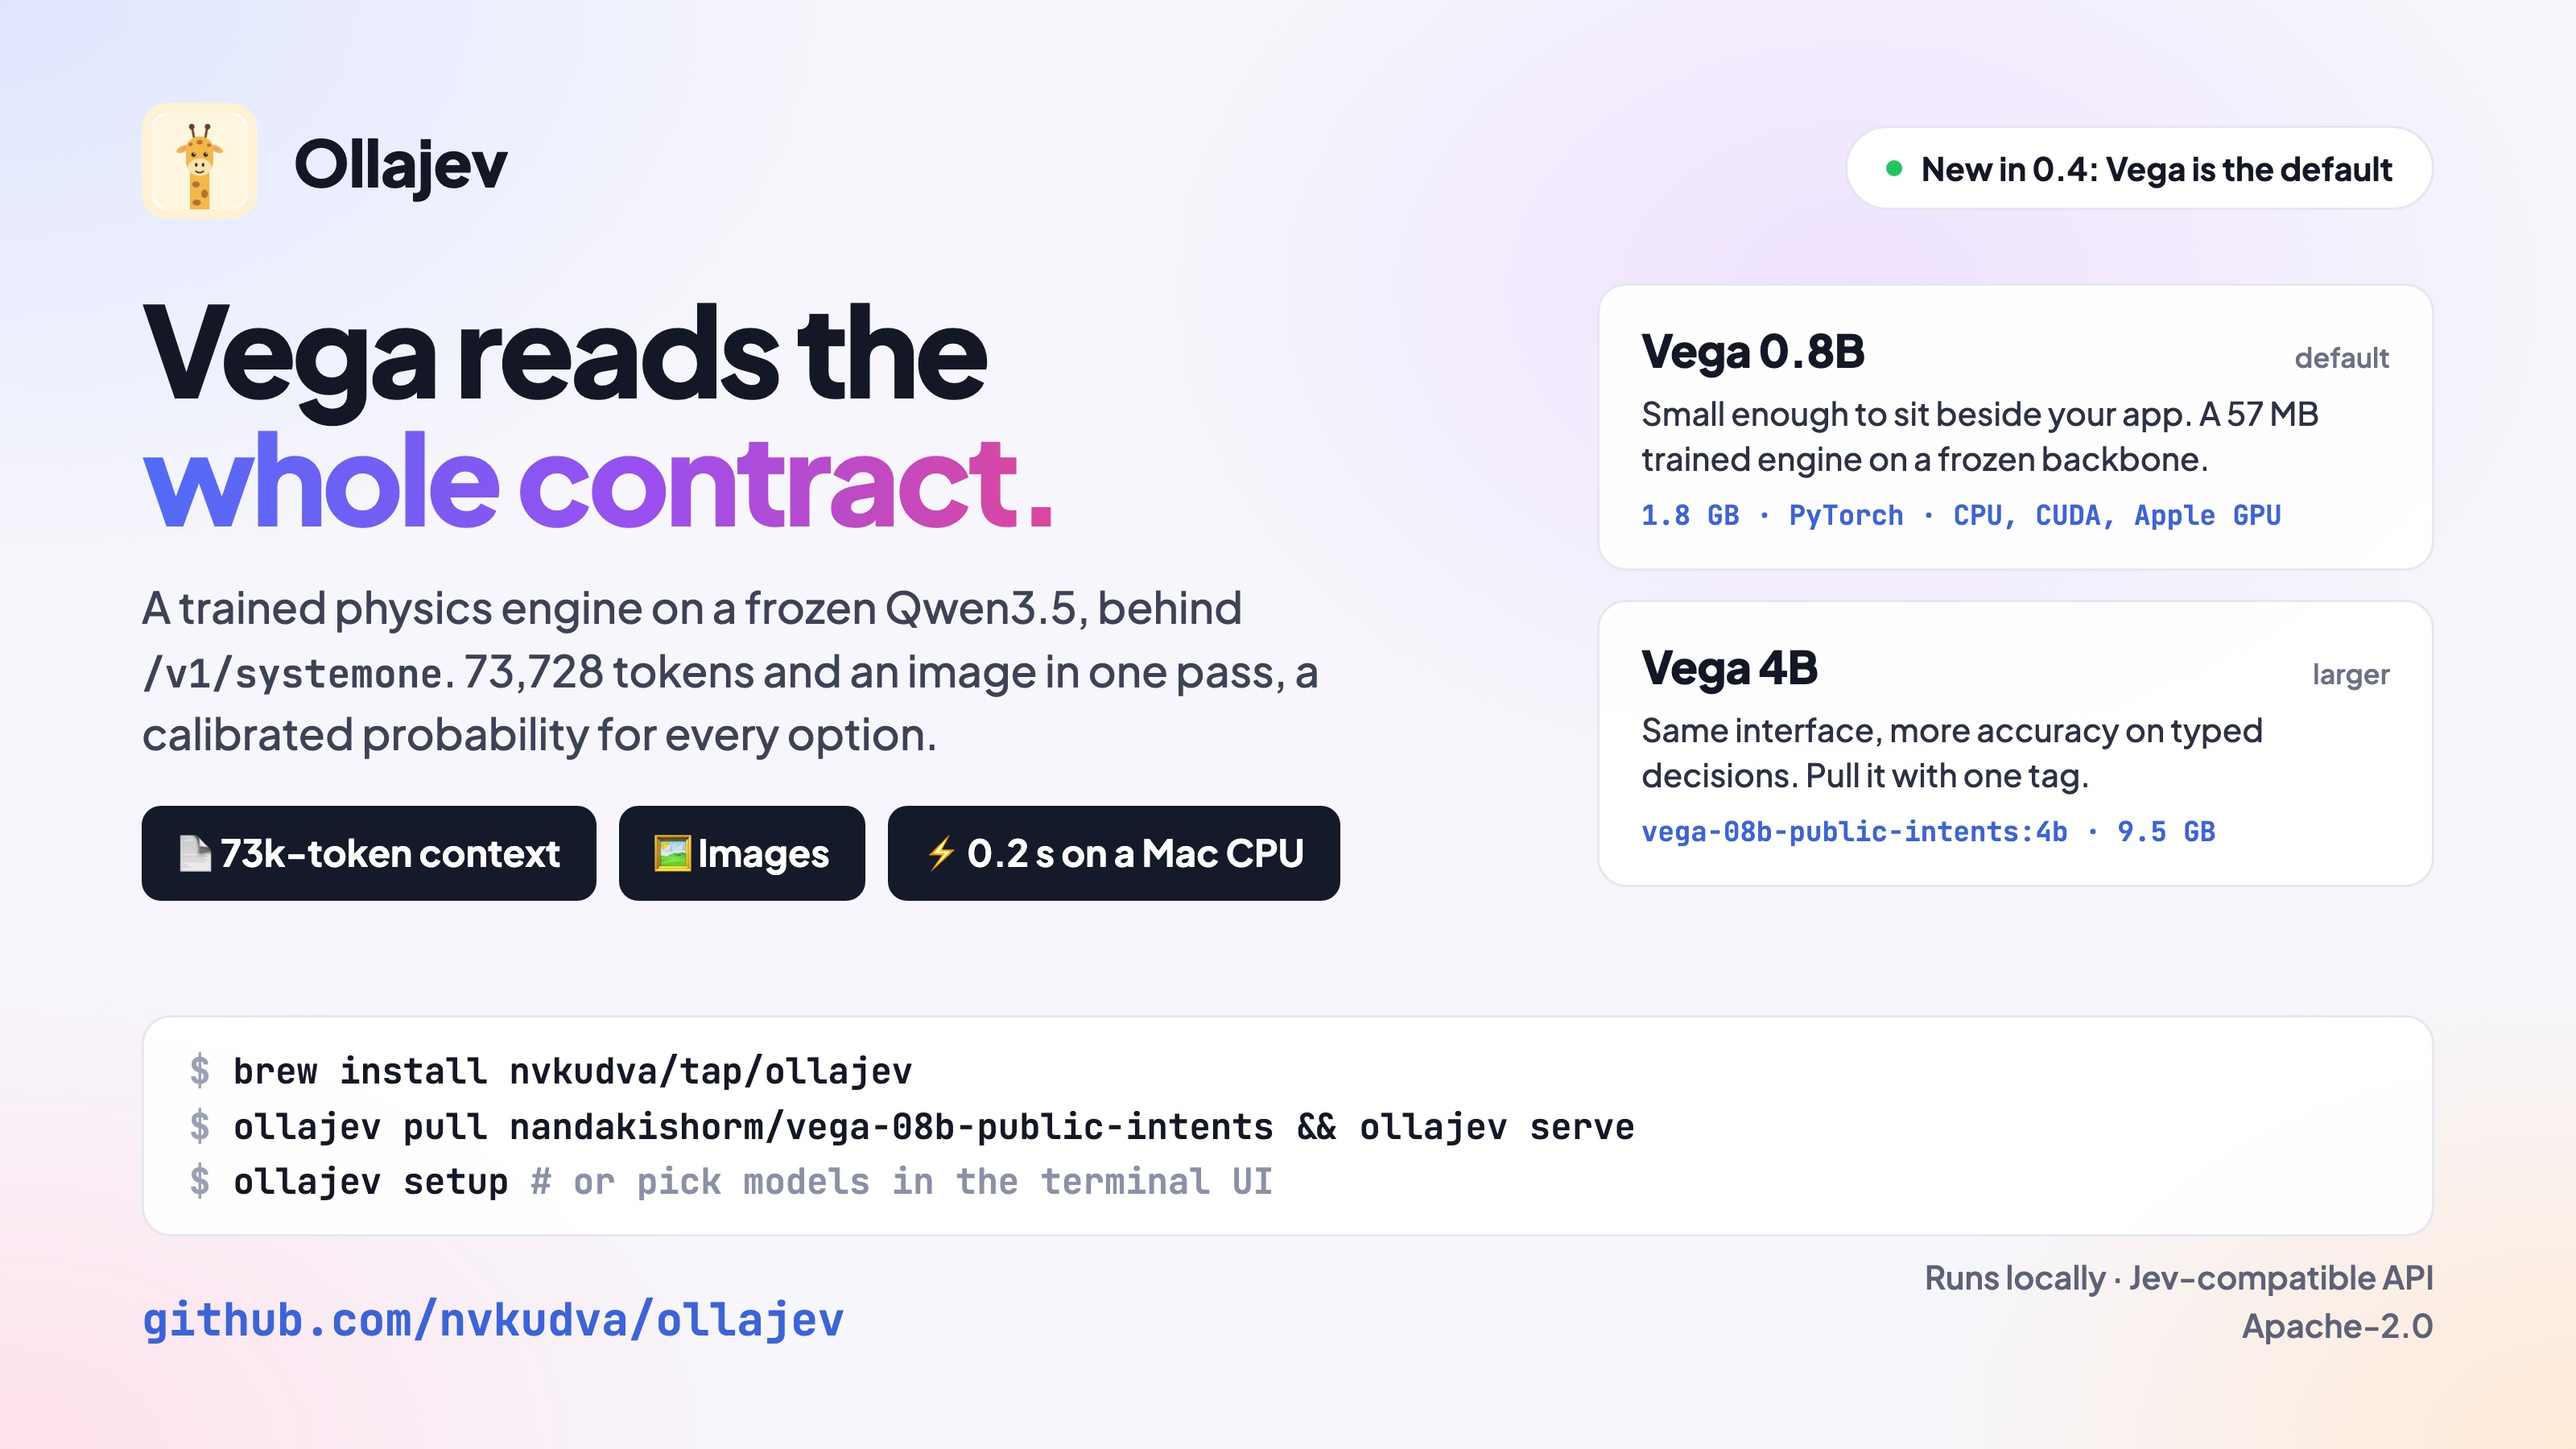
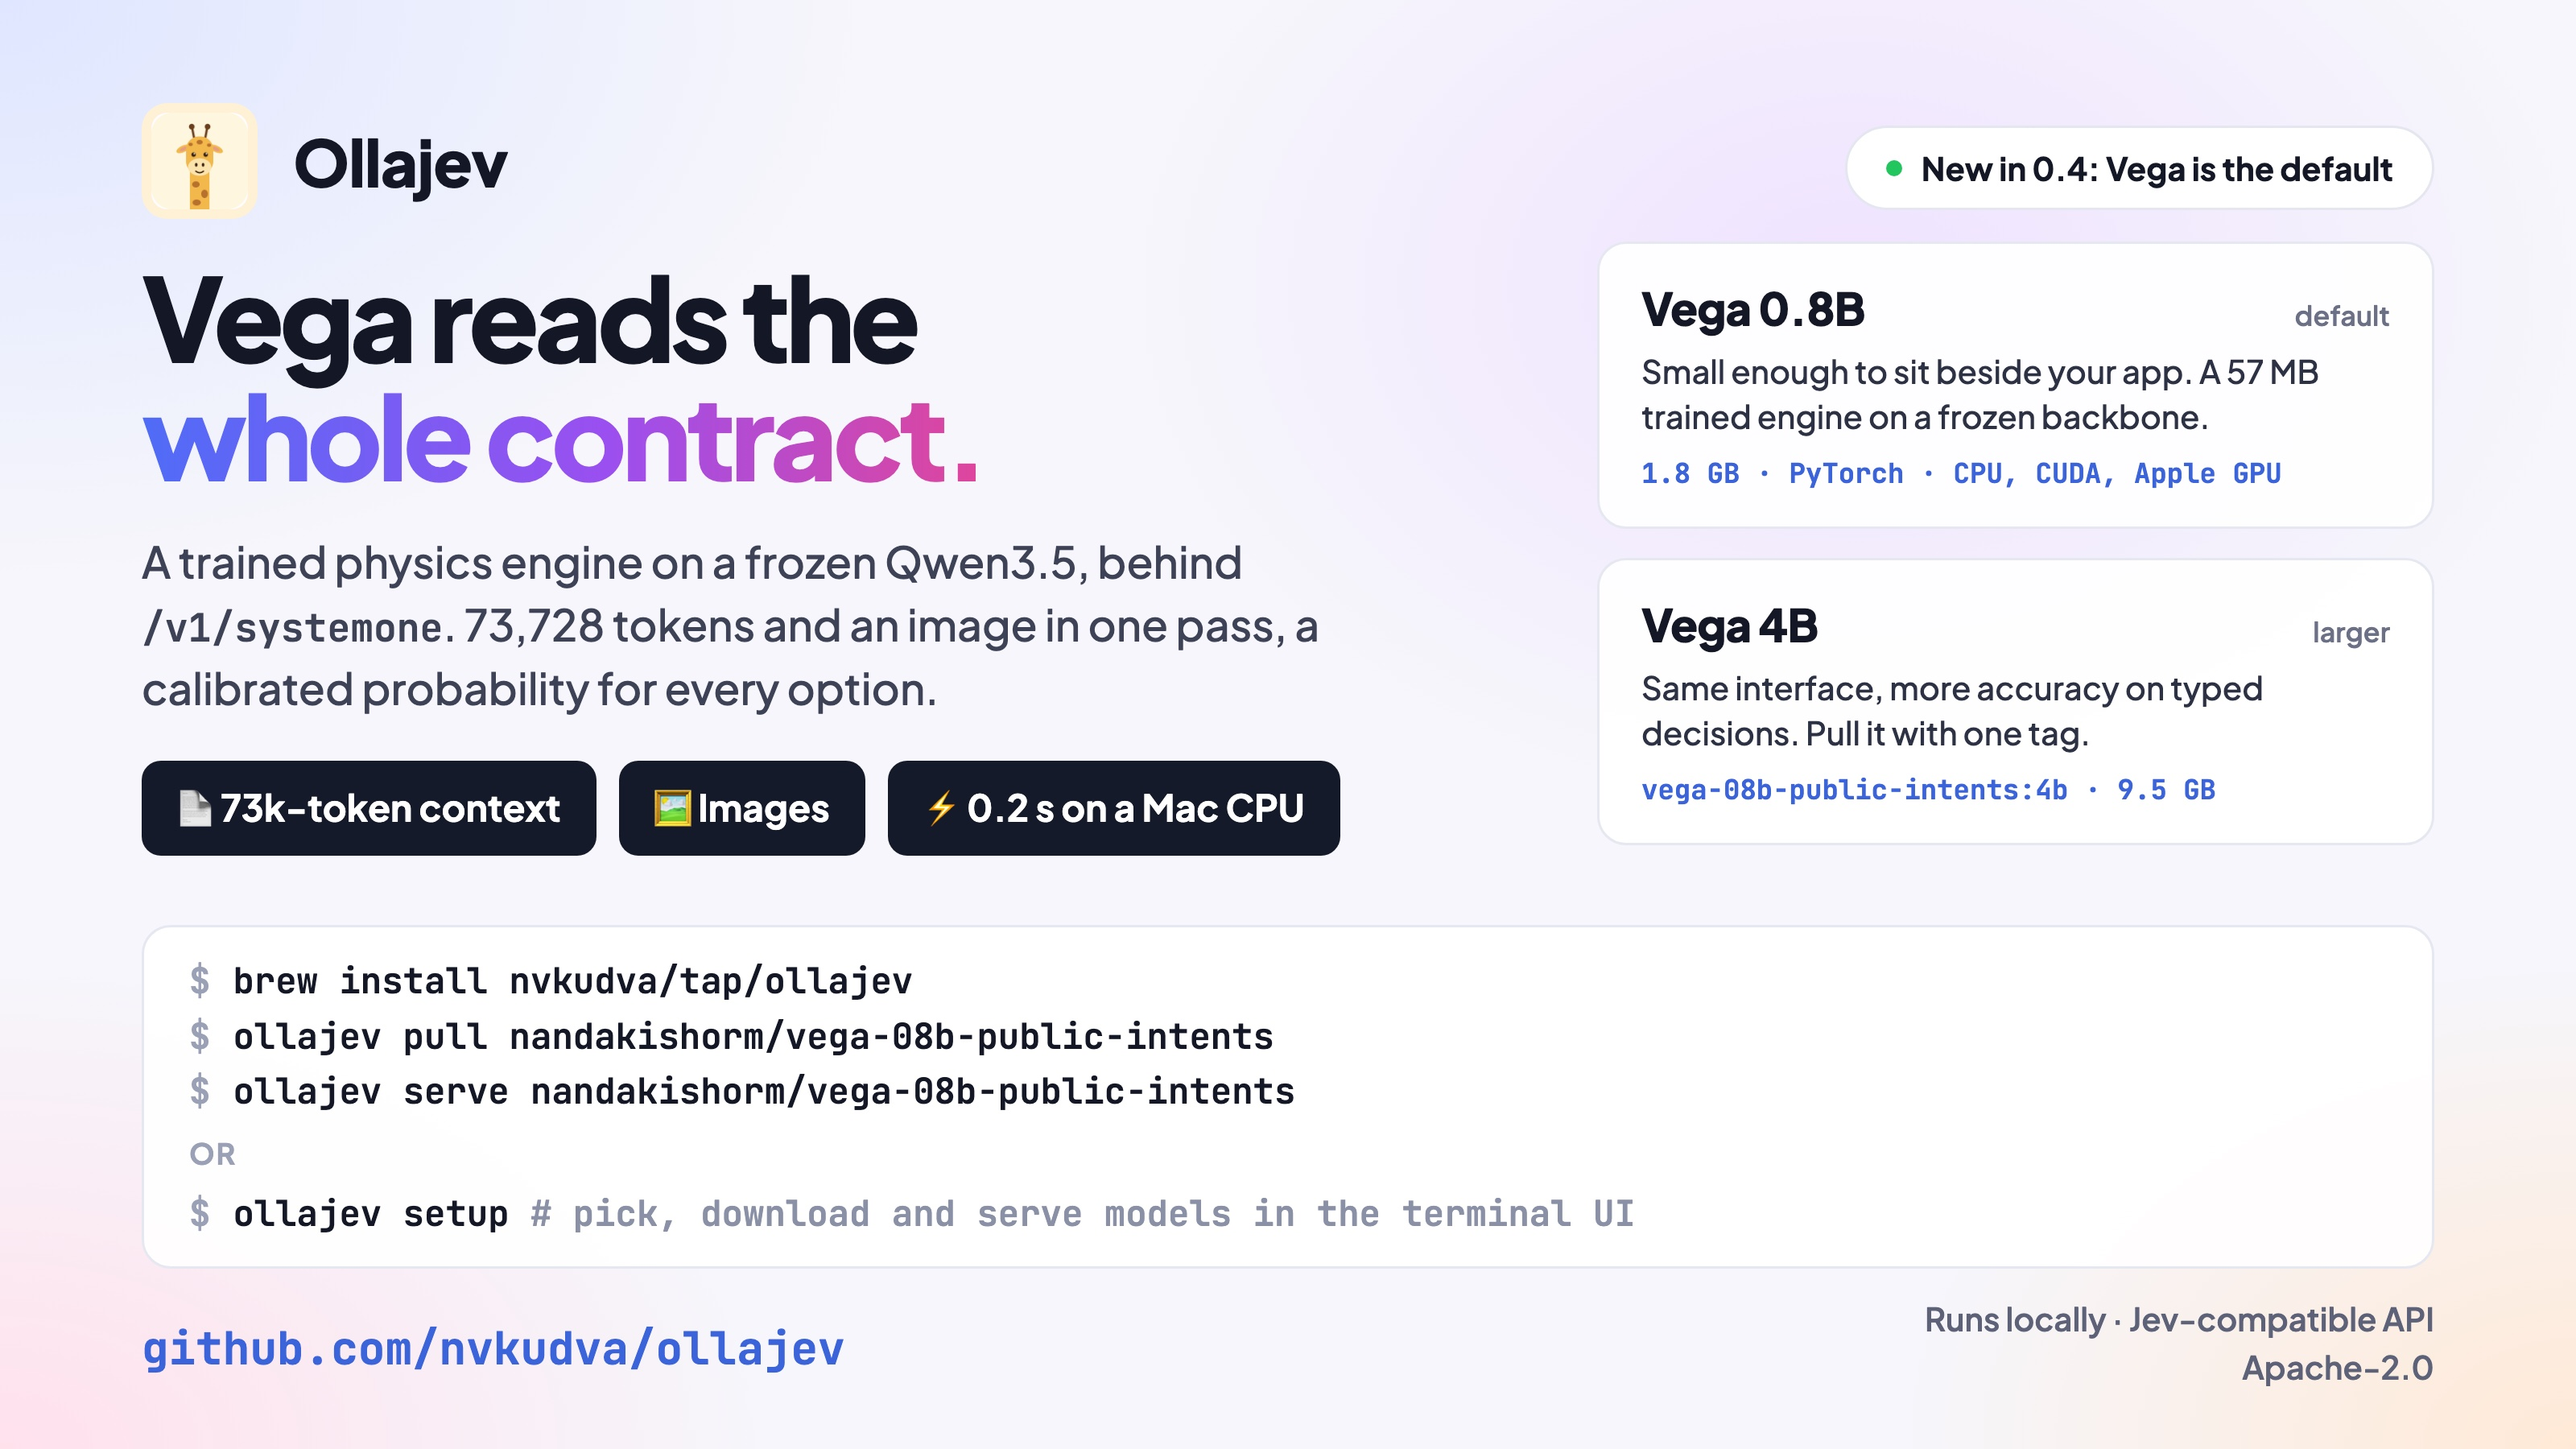
docs(poster): pull and serve Vega by name, or ollajev setup
Claude-Session: https://claude.ai/code/session_0187pUTAZjCm4AQeWJKahLo7

diff --git a/docs/index.html b/docs/index.html
@@ -393,7 +393,7 @@ const SHOTS = {
   vega: {
     src: "vega-poster.jpg",
     width: 3200, height: 1800,
-    alt: "Ollajev: Vega reads the whole contract. New in 0.4, Vega is the default: a trained physics engine on a frozen Qwen3.5, 73,728 tokens and an image in one pass. Cards for Vega 0.8B (default, 1.8 GB) and Vega 4B (9.5 GB, the :4b tag), and the commands to start: brew install nvkudva/tap/ollajev, then ollajev pull nandakishorm/vega-08b-public-intents and ollajev serve, or ollajev setup for the model manager.",
+    alt: "Ollajev: Vega reads the whole contract. New in 0.4, Vega is the default: a trained physics engine on a frozen Qwen3.5, 73,728 tokens and an image in one pass. Cards for Vega 0.8B (default, 1.8 GB) and Vega 4B (9.5 GB, the :4b tag), and the commands to start: brew install nvkudva/tap/ollajev, then ollajev pull and ollajev serve nandakishorm/vega-08b-public-intents, or ollajev setup to pick, download and serve models in the terminal UI.",
   },
   multimodal: {
     src: "multimodal-poster.jpg",

diff --git a/README.md b/README.md
@@ -7,7 +7,7 @@ Run System One decision models from Hugging Face on your machine, behind the sam
 
 <p align="center"><a href="https://nvkudva.github.io/ollajev/">Product page</a> · <a href="#install">Install</a> · <a href="#quick-start">Quick start</a> · <a href="#models">Models</a> · <a href="#api">API</a></p>
 
-<p align="center"><a href="https://nvkudva.github.io/ollajev/#new"><img src="https://raw.githubusercontent.com/nvkudva/ollajev/main/docs/vega-poster.jpg" alt="Ollajev 0.4: Vega reads the whole contract. Vega 0.8B is the new default and Vega 4B is one tag away. Install with brew install nvkudva/tap/ollajev, then ollajev pull nandakishorm/vega-08b-public-intents and ollajev serve, or ollajev setup" width="720"></a></p>
+<p align="center"><a href="https://nvkudva.github.io/ollajev/#new"><img src="https://raw.githubusercontent.com/nvkudva/ollajev/main/docs/vega-poster.jpg" alt="Ollajev 0.4: Vega reads the whole contract. Vega 0.8B is the new default and Vega 4B is one tag away. Install with brew install nvkudva/tap/ollajev, then ollajev pull and ollajev serve nandakishorm/vega-08b-public-intents, or ollajev setup" width="720"></a></p>
 
 > **New in 0.4:** [Vega](https://huggingface.co/nandakishorm/vega-08b-public-intents) is the default model: a
 > trained physics engine on a frozen Qwen3.5, in 0.8B (1.8 GB) and 4B (`:4b`, 9.5 GB) sizes, with a 73,728-token
